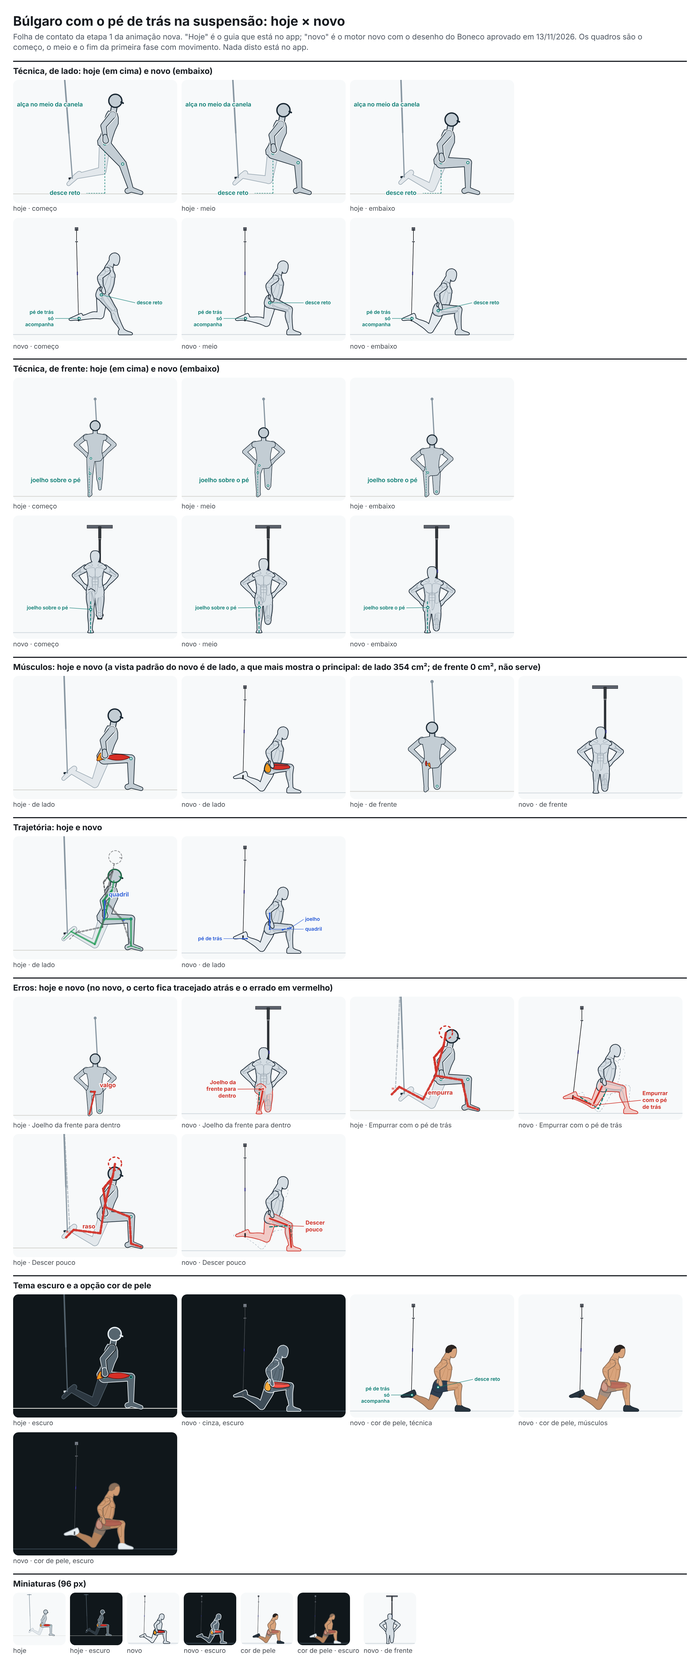
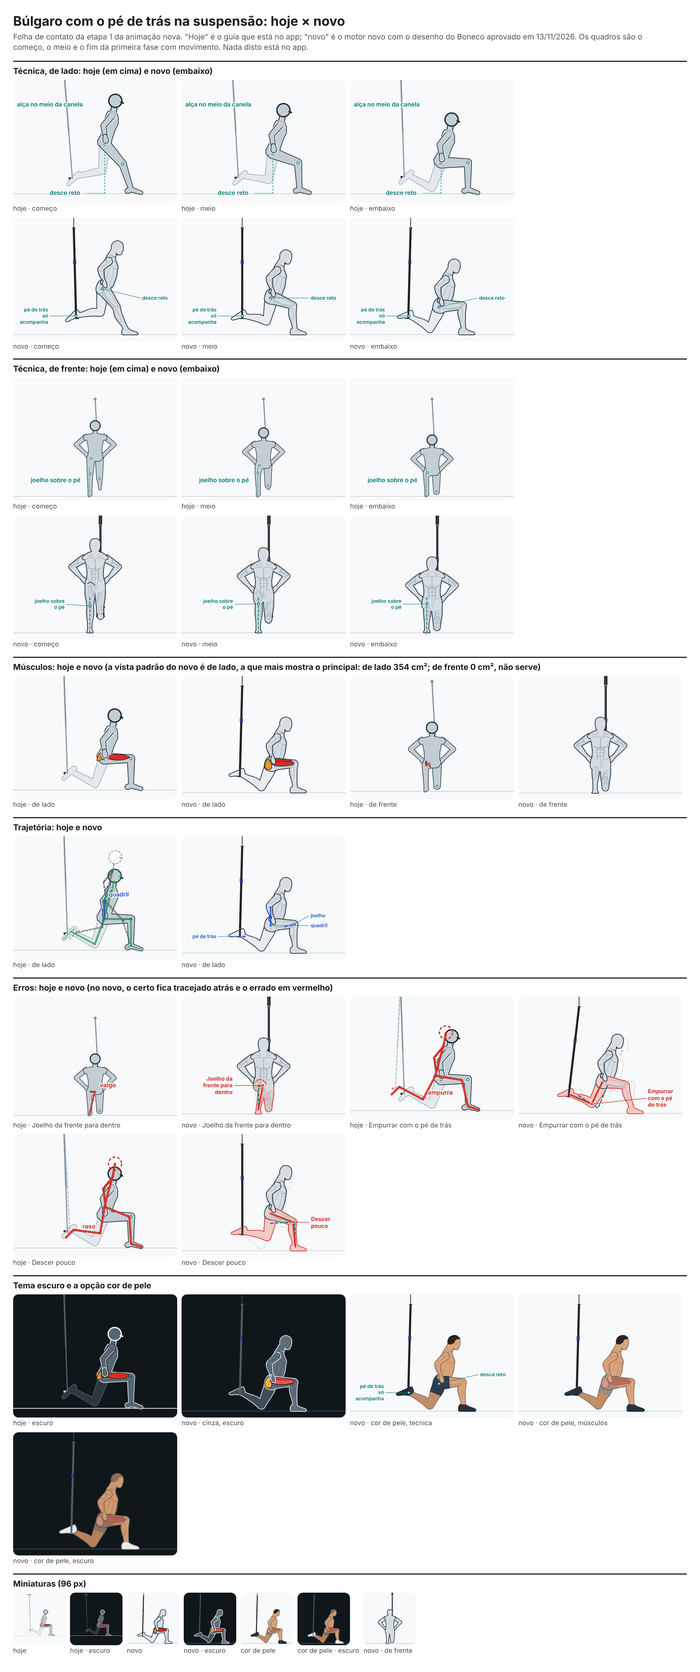
Corrige o búlgaro na suspensão: berço em volta do pé, pé que gira e fita legível
O berço ganha as duas tiras laterais, uma de cada lado do pé, juntas no
pegador acima dele; o pé gira no berço e a flexão plantar cai de 73° para
52°; a fita gira 45° e aparece de lado, de frente e no tema escuro; a viga
vira cenário e o corpo fica do tamanho do búlgaro aprovado. A peça da fita
só ganha campos opcionais: o desenho das outras animações não muda.

Claude-Session: https://claude.ai/code/session_01YRzts7dTzBdkrmTDEnq8bW

diff --git a/src/engine/novo/exercicios/bulgaro-base.ts b/src/engine/novo/exercicios/bulgaro-base.ts
@@ -5,6 +5,7 @@
 // O pé de trás apoia num banco reto, no assento de uma cadeira firme, ou no berço de uma fita de suspensão: na fita ele
 // não fica parado, pende da âncora e anda num arco (a fita não estica) enquanto o quadril desce.
 import { pontosDoBoneco } from '../boneco';
+import { angulosDoLado } from '../conferir-util';
 import { sinal } from '../esqueleto';
 import type { Esq, Lado, PoseBraco } from '../esqueleto';
 import { daFicha, fichaSchema, resolver1, suave } from '../movimento';
@@ -15,7 +16,7 @@ import { cadeira, parede } from '../pecas-de-cena/cadeira';
 import { alturaNaFita, fitaDeSuspensao } from '../pecas-de-cena/suspensao';
 import type { Corpo } from '../tabelas';
 import { obj } from '../tabelas';
-import { add, mix, norm, paraRef, sub } from '../vec';
+import { add, dist, mix, norm, paraRef, sub } from '../vec';
 import type { V3 } from '../vec';
 import { afundar } from './afundar';
 import { FRENTE, TRAS, maosNaCintura } from './afundo-estatico';
@@ -159,7 +160,39 @@ export function criarBulgaro(fichaJson: unknown, maos: MaosDoBulgaro, apoioDeTra
       z = Fi.zAlca - atras;
     return [x, alturaNaFita(Fi.ancora, Fi.comp, x, z), z];
   }
-  const tornozeloNaFita = (Fi: Fita, atras: number): V3 => sub(alcaNaFita(Fi, atras), Fi.contato);
+  /**
+   * O pé gira no berço em volta do ponto de apoio (o peito do pé), de lado: `giro` graus com a ponta mais para baixo.
+   * Gira o vetor do tornozelo ao apoio junto com o pé (no plano de lado, em volta de x).
+   */
+  const girarNoBerco = (v: V3, giro: number): V3 => {
+    const g = -giro * rad;
+    return [v[0], v[1] * Math.cos(g) - v[2] * Math.sin(g), v[1] * Math.sin(g) + v[2] * Math.cos(g)];
+  };
+  const tornozeloNaFita = (Fi: Fita, atras: number, giro = 0): V3 => sub(alcaNaFita(Fi, atras), girarNoBerco(Fi.contato, giro));
+  const comGiro = (A: Apoio, giro: number): Apoio => ({ ...A, inclina: A.inclina + giro });
+  /**
+   * Na fita, o pé não fica preso como no banco: ele gira no berço. Em cima, a canela de trás fica quase deitada (o berço
+   * é baixo) e, com o pé na inclinação do banco, o tornozelo esticaria além da média; o pé gira até a flexão plantar
+   * ficar em `fita.flexaoPlantarEmCima` e volta, na descida, à inclinação do banco (`giro` vai a zero embaixo).
+   */
+  const GIROS = new WeakMap<Corpo, { cima: number; giro: number }>();
+  function giroEmCima(corpo: Corpo): { cima: number; giro: number } {
+    let G = GIROS.get(corpo);
+    if (G) return G;
+    const A = apoio(corpo),
+      Fi = fita(corpo);
+    const cimaCom = (giro: number) => resolver1((y) => f('joelho.cima') - pose(corpo, y, comGiro(A, giro), { tornozelo: tornozeloNaFita(Fi, 0, giro) }).lado[FRENTE].ang.joelho, 95, 30);
+    let giro = 0,
+      cima = cimaCom(0);
+    for (let i = 0; i < 3; i++) {
+      const y = cima;
+      giro = resolver1((g) => -angulosDoLado(pose(corpo, y, comGiro(A, g), { tornozelo: tornozeloNaFita(Fi, 0, g) }), TRAS).dorsiflexao - f('fita.flexaoPlantarEmCima'), 0, 45);
+      cima = cimaCom(giro);
+    }
+    G = { cima, giro };
+    GIROS.set(corpo, G);
+    return G;
+  }
 
   /** As alturas do quadril em cima (o joelho da frente quase estendido) e embaixo (o joelho de trás perto do chão). */
   function calibrar(corpo: Corpo) {
@@ -172,7 +205,7 @@ export function criarBulgaro(fichaJson: unknown, maos: MaosDoBulgaro, apoioDeTra
     const tCima = Fi ? tornozeloNaFita(Fi, 0) : undefined,
       tBaixo = Fi ? tornozeloNaFita(Fi, f('fita.peVaiParaTras')) : undefined;
     const baixo = resolver1((y) => pose(corpo, y, A, { tornozelo: tBaixo }).lado[TRAS].joelho[1] - raioDoJoelho - f('joelhoDeTras.aoChao'), 25, 70);
-    const cima = resolver1((y) => f('joelho.cima') - pose(corpo, y, A, { tornozelo: tCima }).lado[FRENTE].ang.joelho, 95, baixo);
+    const cima = Fi ? giroEmCima(corpo).cima : resolver1((y) => f('joelho.cima') - pose(corpo, y, A, { tornozelo: tCima }).lado[FRENTE].ang.joelho, 95, baixo);
     // no erro do pé perto do banco, a pessoa também começa com o joelho da frente quase estendido
     const cimaPerto = 'erro.perto.maisPerto' in F.param ? resolver1((y) => f('joelho.cima') - pose(corpo, y, A, { perto: f('erro.perto.maisPerto') }).lado[FRENTE].ang.joelho, 95, baixo) : cima;
     c = { cima, cimaPerto, baixo };
@@ -215,11 +248,34 @@ export function criarBulgaro(fichaJson: unknown, maos: MaosDoBulgaro, apoioDeTra
   }
 
   /**
+   * O berço em volta do pé: as duas tiras laterais passam uma de cada lado do pé (a largura do pé mais uma folga) e se
+   * juntam no pegador acima dele, mais alto que o calcanhar e o tornozelo (medido no Boneco, no ciclo, com uma folga):
+   * a fita que sobe para a âncora não atravessa o pé.
+   */
+  const BERCOS = new WeakMap<Corpo, { largura: number; juntaAcima: number }>();
+  function bercoDoPe(corpo: Corpo): { largura: number; juntaAcima: number } {
+    let B = BERCOS.get(corpo);
+    if (B) return B;
+    const largura = corpo.m('pe.largura') + 2 * f('fita.bercoFolga');
+    let acima = 0;
+    for (const u of [0, 0.25, 0.5, 0.75, 1]) {
+      const q = quadroNaFita(corpo, u, undefined, true);
+      const T = q.esq.lado[TRAS].tornozelo,
+        a = q.marcas.alca!;
+      // o que do pé e da canela de trás fica na coluna da fita, acima do berço
+      for (const { p } of pontosDoBoneco(q.esq)) if (dist(p, T) < 20 && Math.abs(p[2] - a[2]) < f('fita.bercoFolga') + 2 && Math.abs(p[0] - a[0]) < largura / 2) acima = Math.max(acima, p[1] - a[1]);
+    }
+    B = { largura, juntaAcima: acima + f('fita.bercoFolga') };
+    BERCOS.set(corpo, B);
+    return B;
+  }
+
+  /**
    * O búlgaro com o pé de trás na fita. O quadril desce reto como no banco; o fundo do berço anda para trás no arco
    * da fita (`fita.peVaiParaTras` até embaixo) e o tornozelo vai junto. No erro de empurrar a alça, a perna de trás
    * estica: o pé vai mais para trás, o quadril recua e desce menos.
    */
-  function quadroNaFita(corpo: Corpo, u: number, erro?: string): Quadro {
+  function quadroNaFita(corpo: Corpo, u: number, erro?: string, semBerco = false): Quadro {
     const A = apoio(corpo);
     const c = calibrar(corpo);
     const Fi = fita(corpo);
@@ -227,19 +283,22 @@ export function criarBulgaro(fichaJson: unknown, maos: MaosDoBulgaro, apoioDeTra
     const fundo = erro === 'raso' ? f('erro.raso.fracao') : empurra ? f('erro.empurra.fracao') : 1;
     const atras = empurra ? (f('fita.peVaiParaTras') + f('erro.empurra.peMaisAtras')) * u : f('fita.peVaiParaTras') * u * fundo;
     const alca = alcaNaFita(Fi, atras);
-    const e = pose(corpo, mix(c.cima, c.baixo, u * fundo), A, {
+    // o pé gira no berço de volta à inclinação do banco à medida que a canela se levanta
+    const giro = giroEmCima(corpo).giro * (1 - u);
+    const e = pose(corpo, mix(c.cima, c.baixo, u * fundo), comGiro(A, giro), {
       valgo: erro === 'valgo' ? f('erro.valgo.joelho') * Math.sin((Math.PI / 2) * Math.min(1, u * 1.25)) : 0,
-      tornozelo: sub(alca, Fi.contato),
+      tornozelo: sub(alca, girarNoBerco(Fi.contato, giro)),
       quadrilZ: empurra ? -f('erro.empurra.quadrilAtras') * u : 0,
     });
-    const S = fitaDeSuspensao({ ancora: Fi.ancora, pegadores: [{ tipo: 'pe', ponto: alca, lado: [1, 0, 0] }] });
+    const S = fitaDeSuspensao({ ancora: Fi.ancora, pegadores: [{ tipo: 'pe', ponto: alca, lado: [1, 0, 0], ...(semBerco ? {} : bercoDoPe(corpo)) }], fitaGirada: f('fita.giroDaFita'), vigaComoCenario: true });
     return {
       esq: e,
       prims: [chao(-90, 90, -190, 90), ...S.prims],
-      pecas: [S.peca],
+      // a viga e a fita de ancoragem são cenário: o quadro não sobe até elas e o corpo fica maior
+      pecas: [S.peca, ...(S.cenario ? [S.cenario] : [])],
       fios: [{ id: 'fita', comp: S.comp[0]!, estica: false }],
       cargas: [],
-      marcas: { alca, ancora: Fi.ancora, contatoDoPe: add(e.lado[TRAS].tornozelo, Fi.contato) },
+      marcas: { alca, ancora: Fi.ancora, contatoDoPe: add(e.lado[TRAS].tornozelo, girarNoBerco(Fi.contato, giro)) },
     };
   }
   return { ficha: F, quadro, alturaDoApoio };

diff --git a/src/engine/novo/pecas-de-cena/suspensao.ts b/src/engine/novo/pecas-de-cena/suspensao.ts
@@ -25,6 +25,13 @@ export interface PegadorDaFita {
   tipo: 'mao' | 'pe';
   ponto: V3;
   lado: V3;
+  /**
+   * Só no pé, opcionais (acrescentados na correção do búlgaro na suspensão; sem eles, nada muda): o berço em volta do
+   * pé. `largura`: a distância entre as duas tiras laterais no fundo do berço (elas passam uma de cada lado do pé);
+   * `juntaAcima`: quanto acima do fundo do berço as duas tiras se juntam no pegador (acima do pé e do tornozelo).
+   */
+  largura?: number;
+  juntaAcima?: number;
 }
 export interface FitaDeSuspensao {
   /** Onde a fita se prende: a ponta de baixo da fita de ancoragem (o mosquetão fica pendurado aí). */
@@ -37,7 +44,16 @@ export interface FitaDeSuspensao {
    * fora do enquadramento, para o corpo não encolher no quadro (acrescentado no lote 4; sem ele, nada muda).
    */
   vigaComoCenario?: boolean;
+  /**
+   * Quanto a fita gira em volta do próprio comprimento (graus; opcional, acrescentado na correção do búlgaro na
+   * suspensão; sem ele, nada muda). Com 0, a face larga fica de frente para quem olha de frente e, de lado, a fita é só
+   * a espessura; a 45°, as duas vistas a mostram (a fita real torce um pouco).
+   */
+  fitaGirada?: number;
 }
+
+/** Quanto o berço do pé desce abaixo do pegador: o do pegador, se ele disser, ou o da tabela. */
+const alturaDoBerco = (p: PegadorDaFita) => p.juntaAcima ?? g('bercoAlt');
 
 /** O caminho da fita até cada pegador: âncora → (ponto onde se divide) → onde a fita chega ao pegador. */
 function caminhos(f: FitaDeSuspensao): { divide: V3; pontas: { chega: V3; p: PegadorDaFita }[] } {
@@ -50,7 +66,7 @@ function caminhos(f: FitaDeSuspensao): { divide: V3; pontas: { chega: V3; p: Peg
   const pontas = ps.map((p) => {
     if (p.tipo === 'mao') return { chega: p.ponto, p };
     const d = norm(sub(p.ponto, divide));
-    return { chega: add(p.ponto, mul(d, -g('bercoAlt'))), p };
+    return { chega: add(p.ponto, mul(d, -alturaDoBerco(p))), p };
   });
   return { divide, pontas };
 }
@@ -69,7 +85,7 @@ export function pontoDeDivisao(f: FitaDeSuspensao): V3 {
  */
 export function comprimentoDaFita(f: FitaDeSuspensao): number[] {
   const c = caminhos(f);
-  return c.pontas.map(({ chega, p }) => dist(f.ancora, c.divide) + dist(c.divide, chega) + (p.tipo === 'pe' ? g('bercoAlt') : 0));
+  return c.pontas.map(({ chega, p }) => dist(f.ancora, c.divide) + dist(c.divide, chega) + (p.tipo === 'pe' ? alturaDoBerco(p) : 0));
 }
 
 /**
@@ -82,10 +98,15 @@ export function alturaNaFita(ancora: V3, comp: number, x: number, z: number): nu
 }
 
 /** A viga (o ponto firme da montagem segura; o tamanho é só de desenho) e a ponta da fita de ancoragem que desce dela. */
-function vigaEAncoragem(C: CenaRealista, M: Materiais, ancora: V3, trecho: (a: V3, b: V3, larg: number, lado: V3) => void) {
+function vigaEAncoragem(C: CenaRealista, M: Materiais, ancora: V3, trecho: (a: V3, b: V3, larg: number, lado: V3) => void, giro = 0) {
   const topo = add(ancora, [0, 22, 0]);
   C.tubo(add(topo, [-25, 3, 0]), add(topo, [25, 3, 0]), 6, 6, M.metal, { up: [0, 1, 0] });
-  trecho(add(topo, [0, 3, 0]), add(ancora, [0, 2, 0]), g('ancoraLarg'), [1, 0, 0]);
+  trecho(add(topo, [0, 3, 0]), add(ancora, [0, 2, 0]), g('ancoraLarg'), giro ? girarEmVolta([1, 0, 0], [0, -1, 0], giro) : [1, 0, 0]);
+}
+/** Gira a direção `l` em volta do eixo `d` (perpendicular a ela), em graus. */
+function girarEmVolta(l: V3, d: V3, graus: number): V3 {
+  const a = (graus * Math.PI) / 180;
+  return norm(add(mul(l, Math.cos(a)), mul(cross(d, l), Math.sin(a))));
 }
 /** Um trecho de fita chata, de `a` a `b`, com a largura atravessada na direção `lado`. */
 const trechoDeFita = (C: CenaRealista, M: Materiais) => (a: V3, b: V3, larg: number, lado: V3, esp = 0.35) => {
@@ -114,13 +135,28 @@ export function fitaDeSuspensao(f: FitaDeSuspensao): { prims: Prim[]; peca: Peca
         if (len(up) < 1e-4) up = cross([0, 0, 1], d);
         C.tubo(a, b, larg, esp, fita, { up: norm(up) });
       };
+      /**
+       * O berço em volta do pé: o pegador atravessado no alto (onde as tiras se juntam), as duas tiras laterais, uma de
+       * cada lado do pé, e a almofada do fundo, por baixo do peito do pé. As tiras mostram a face de lado.
+       */
+      const bercoEmVolta = (junta: V3, fundo: V3, d: V3, l: V3, largura: number) => {
+        const meia = g('pegadorComp') / 2;
+        C.cilindro(add(junta, mul(l, -meia)), add(junta, mul(l, meia)), g('pegadorDiam') / 2, fita, { lados: 12 });
+        const face = norm(cross(l, d));
+        const esp = 1.2;
+        // a almofada do fundo fica logo abaixo do ponto de apoio (o pé apoia em cima dela)
+        const centro = add(fundo, mul(d, esp / 2));
+        for (const s of [-1, 1]) trecho(add(junta, mul(l, s * (meia - 1.5))), add(centro, mul(l, s * (largura / 2))), 2.5, face, 0.5);
+        C.tubo(add(centro, mul(l, -largura / 2 - 0.6)), add(centro, mul(l, largura / 2 + 0.6)), g('bercoLarg'), esp, fita, { up: d });
+      };
       const ladoDe = (d: V3): V3 => {
         const l = perp([1, 0, 0], d);
         return len(l) < 1e-4 ? [0, 0, 1] : norm(l);
       };
       // o ponto firme (uma viga ou barra, como pede a montagem segura; o tamanho é só de desenho), a ponta da fita de
       // ancoragem que desce dele e o mosquetão
-      if (!f.vigaComoCenario) vigaEAncoragem(C, M, f.ancora, trecho);
+      if (!f.vigaComoCenario) vigaEAncoragem(C, M, f.ancora, trecho, f.fitaGirada ?? 0);
+      const gira = (l: V3, d: V3) => (f.fitaGirada ? girarEmVolta(l, d, f.fitaGirada) : l);
       const mosq = g('mosquetaoComp');
       const dA = norm(sub(c.divide === f.ancora ? c.pontas[0]!.chega : c.divide, f.ancora));
       const fimMosq = add(f.ancora, mul(dA, mosq));
@@ -134,14 +170,19 @@ export function fitaDeSuspensao(f: FitaDeSuspensao): { prims: Prim[]; peca: Peca
       }
       for (let i = 0; i < voltas; i++) C.cilindro(anel[i]!, anel[i + 1]!, 0.7, M.cromo, { lados: 8 });
       // a fita inteira até onde se divide (com dois pegadores) e uma fita até cada pegador, com a fivela de ajuste
-      if (c.divide !== f.ancora) trecho(fimMosq, c.divide, g('fitaLarg'), ladoDe(norm(sub(c.divide, f.ancora))));
+      if (c.divide !== f.ancora) trecho(fimMosq, c.divide, g('fitaLarg'), gira(ladoDe(norm(sub(c.divide, f.ancora))), norm(sub(c.divide, f.ancora))));
       for (const { chega, p } of c.pontas) {
         const de = c.divide === f.ancora ? fimMosq : c.divide;
         const d = norm(sub(chega, de));
         const l = norm(perp(p.lado, d));
-        trecho(de, chega, g('fitaLarg'), l);
+        const lf = gira(l, d);
+        trecho(de, chega, g('fitaLarg'), lf);
         const fivela = lerp(de, chega, 0.42);
-        C.tubo(add(fivela, mul(d, -3)), add(fivela, mul(d, 3)), g('fitaLarg') + 1.2, 1.4, acao, { up: norm(cross(l, d)) });
+        C.tubo(add(fivela, mul(d, -3)), add(fivela, mul(d, 3)), g('fitaLarg') + 1.2, 1.4, acao, { up: norm(cross(lf, d)) });
+        if (p.tipo === 'pe' && p.largura !== undefined) {
+          bercoEmVolta(chega, p.ponto, d, l, p.largura);
+          continue;
+        }
         // o pegador de mão: atravessado à fita; para o pé, ele fica logo acima do berço
         const pega = p.tipo === 'mao' ? p.ponto : chega;
         const meia = g('pegadorComp') / 2;

diff --git a/docs/revisoes/animacao-nova/lote-1/bulgaro-suspensao.md b/docs/revisoes/animacao-nova/lote-1/bulgaro-suspensao.md
@@ -2,6 +2,8 @@
 
 De 15/11/2026. Feito sobre o núcleo dos búlgaros (`bulgaro-base.ts`), com o corpo do búlgaro aprovado e as mãos na cintura. O que muda: o peito do pé de trás fica no berço da alça de uma fita de suspensão, de costas para a âncora, e **o pé não fica parado**: ele pende da âncora e anda para trás num arco enquanto o quadril desce, com a fita sempre do mesmo comprimento. Ainda não está ligado às telas do app.
 
+**Correção de 15/11/2026** (pedida por quem integra, pelo padrão de qualidade da seção 8 do guia): o berço passou a ter as duas tiras laterais, uma de cada lado do pé, juntando-se no pegador acima dele; o pé gira no berço e a flexão plantar caiu de 73° para 52°; a fita gira 45° em volta do comprimento e aparece de lado, de frente e no tema escuro; a viga e a fita de ancoragem viraram cenário e o corpo ficou do tamanho do búlgaro aprovado. Relatório da correção: `relatorio-bulgaro-suspensao-correcao.md`.
+
 - Ficha da técnica: `docs/pesquisa/animacoes/bulgaro-suspensao.md`.
 - Ficha de movimento: `src/engine/novo/dados/movimentos/bulgaro-suspensao.json`.
 - Animação: `src/engine/novo/exercicios/bulgaro-suspensao.ts` (`criarBulgaro(ficha, 'cintura', 'fita')`).
@@ -13,16 +15,17 @@ De 15/11/2026. Feito sobre o núcleo dos búlgaros (`bulgaro-base.ts`), com o co
 
 1. **A âncora** fica a 182,9 cm do chão: é a altura que o fabricante chama de ideal para todos os exercícios ("about six feet", página da TRX). A animação de hoje usa 205 cm, escolha de desenho; com 183, a âncora cabe no quadro sem encolher o corpo.
 2. **O comprimento da fita** sai da montagem que a ficha pede, "alça na altura do meio da canela": pendurada, o fundo do berço fica no meio da canela do corpo (28,3 cm; o fabricante dá 8 a 12 pol, 20,3 a 30,5 cm). Da âncora ao fundo do berço: 182,9 − 28,3 = 154,7 cm.
-3. **No exercício**, o fundo do berço fica sempre a 154,7 cm da âncora. Em cima, ele está 4 cm à frente da vertical da âncora; na descida anda 8 cm para trás (como na animação de hoje) e termina 4 cm atrás dela. Como o arco é simétrico, a altura quase não muda (28,3 cm). O tornozelo vai junto: o peito do pé apoia no berço como apoiaria no banco (a mesma inclinação, que sai da forma do pé do Boneco).
+3. **No exercício**, o fundo do berço fica sempre a 154,7 cm da âncora. Em cima, ele está 4 cm à frente da vertical da âncora; na descida anda 8 cm para trás (como na animação de hoje) e termina 4 cm atrás dela. Como o arco é simétrico, a altura quase não muda (28,3 cm). O tornozelo vai junto. O peito do pé apoia no fundo do berço e **gira em volta desse ponto**: em cima, o pé fica com a ponta mais para baixo, até o tornozelo de trás ficar esticado como no búlgaro aprovado (52°); na descida, à medida que a canela se levanta, ele volta à inclinação do banco (embaixo, 33°).
+4. **O berço** abraça o pé: as duas tiras laterais passam a 1,5 cm de cada lado do pé (a largura do pé, 9,9 cm, mais a folga) e se juntam no pegador, 1,5 cm acima do ponto mais alto do pé e do tornozelo nessa coluna, medido no Boneco no ciclo; a almofada do fundo fica sob o peito do pé. A fita que sobe para a âncora sai do pegador, acima do pé, e não o atravessa.
 
 ## O que a fonte pede × o que o boneco faz (medido) × confere?
 
 | O que a ficha da técnica (e o cartão) pede | Selo | O que o boneco faz (medido) | Confere? |
 |---|---|---|---|
-| De costas para a âncora, peito do pé de trás na alça, cadarço para baixo | consenso | a âncora fica atrás da pessoa; o peito do pé fica a no máximo 0,1 cm do fundo do berço, de sola para cima, o ciclo inteiro | sim |
+| De costas para a âncora, peito do pé de trás na alça, cadarço para baixo | consenso | a âncora fica atrás da pessoa; o peito do pé fica a 0 cm do fundo do berço, de sola para cima (em cima, a sola fica a cerca de 45° da horizontal), o ciclo inteiro | sim |
 | Alça na altura do meio da canela | consenso | o fundo do berço fica a 28,3 cm do chão (o meio da canela do corpo: 28,3; o fabricante: 20,3 a 30,5) | sim |
 | A fita não estica | (física) | da âncora ao fundo do berço: 154,6 a 154,7 cm no ciclo (limite: 0,3 cm de variação) | sim |
-| Descida: o pé de trás vai para trás com a fita | consenso | o pé de trás anda 8 cm para trás e 0 cm para cima, no arco | sim |
+| Descida: o pé de trás vai para trás com a fita | consenso | o fundo do berço anda 8 cm para trás no arco; o tornozelo, que também gira com o pé, anda 6,7 cm para trás e 0,2 cm para baixo | sim |
 | Pé da frente longe o bastante para o calcanhar ficar no chão embaixo | consenso | calcanhar e bola do pé da frente a 0 cm do chão; embaixo, o joelho da frente fica 1,3 cm atrás do tornozelo | sim |
 | Tronco levemente à frente, peso na perna da frente, mãos na cintura | consenso | peito 16° para a frente; centro de massa a 60 a 64% do caminho do tornozelo de trás ao da frente; mãos na cintura | sim |
 | Em cima: joelho da frente quase estendido | consenso | 14° | sim |
@@ -33,7 +36,7 @@ De 15/11/2026. Feito sobre o núcleo dos búlgaros (`bulgaro-base.ts`), com o co
 
 Com o pé de trás mais baixo que no banco (o tornozelo a 31,7 cm, contra 46,9 no banco), o joelho de trás chega aos 4 cm do chão com o quadril mais alto: 47 cm, contra 42 no aprovado. Por isso a coxa da frente para mais perto da horizontal (3°) e o joelho da frente dobra menos (91°, contra 98°).
 
-Conferência automática: **0 falha, 3 avisos**: a **flexão plantar do tornozelo de trás chega a 73° em cima** (média 57°, máximo observado 90°); as linhas da ficha de movimento que são escolha de desenho (as distâncias dos pés, iguais às do aprovado; onde o berço fica em relação à âncora; quanto o pé anda; o raio de onde se procura o ponto de apoio do peito do pé; a altura das mãos); e a vista de frente, que não serve ao modo Músculos (a vista padrão é a de lado). Ritmo suave (salto de 9,3%). O corpo não atravessa nenhuma peça (a fita não é medida contra o corpo: ver abaixo).
+Conferência automática: **0 falha, 2 avisos** (antes da correção eram 3: a flexão plantar de 73° saiu; agora ela chega a 52°, abaixo da média de 57°): as linhas da ficha de movimento que são escolha de desenho (as distâncias dos pés, iguais às do aprovado; onde o berço fica em relação à âncora; quanto o pé anda; o raio de onde se procura o ponto de apoio do peito do pé; a flexão plantar em cima; a folga do berço; o giro da fita; a altura das mãos); e a vista de frente, que não serve ao modo Músculos (a vista padrão é a de lado). Ritmo suave (salto de 9,3%). O corpo não atravessa nenhuma peça. A fita não é medida contra o corpo pela conferência; o berço é que foi dimensionado pelo Boneco (item 4 acima).
 
 ## Erros
 
@@ -45,7 +48,7 @@ Conferência automática: **0 falha, 3 avisos**: a **flexão plantar do tornozel
 
 ## O equipamento
 
-- **Fita de suspensão** (peça nova, num arquivo só, para os outros exercícios de suspensão): um trecho da viga (o "ponto firme" da montagem segura; tamanho de desenho), a ponta da fita de ancoragem (5,1 cm de largura, da ficha da TRX), o mosquetão, a fita, a fivela de ajuste (na cor de ação, como no cartão de hoje), o pegador de mão e o berço do pé logo abaixo dele. A peça aceita um ou dois pegadores, de mão ou de pé, e devolve o comprimento de cada fita para `fios` (`estica: false`); `alturaNaFita` acha a altura de um pegador pendurado.
+- **Fita de suspensão** (peça nova, num arquivo só, para os outros exercícios de suspensão): um trecho da viga (o "ponto firme" da montagem segura; tamanho de desenho), a ponta da fita de ancoragem (5,1 cm de largura, da ficha da TRX), o mosquetão, a fita, a fivela de ajuste (na cor de ação, como no cartão de hoje), o pegador de mão e o berço do pé logo abaixo dele. Na correção ganhou três acréscimos opcionais (sem eles, nada muda nos outros exercícios da fita; conferido pelo desenho de todas as animações, igual antes e depois): `largura` e `juntaAcima` no pegador do pé (o berço com as duas tiras em volta do pé, a almofada do fundo e o pegador no alto) e `fitaGirada` na fita (quantos graus a fita gira em volta do comprimento). A peça aceita um ou dois pegadores, de mão ou de pé, e devolve o comprimento de cada fita para `fios` (`estica: false`); `alturaNaFita` acha a altura de um pegador pendurado.
 - **Medidas provisórias** (a página do fabricante não traz): largura da fita (3,8 cm), mosquetão (10 cm), pegador (14 × 3,5 cm), berço do pé (9 cm de largura, 6 cm abaixo do pegador).
 
 ## Correções já feitas que esta animação respeita (`correcoes-ja-feitas.md`)
@@ -56,10 +59,6 @@ Conferência automática: **0 falha, 3 avisos**: a **flexão plantar do tornozel
 
 ## O que não ficou bom
 
-- **A flexão plantar do tornozelo de trás vai a 73° em cima** (aviso): o pé fica deitado no berço com a mesma inclinação do banco, mas, como o berço é bem mais baixo que o banco, a canela de trás fica quase horizontal em cima. Na fita real o pé gira no berço; aqui ele não gira. Seria a próxima correção (deixar o pé girar em volta do ponto de apoio).
-- **O pé de trás fica baixo** (o tornozelo a 32 cm): é o que a ficha pede (alça no meio da canela) e o que a animação de hoje mostra, mas lê menos como "búlgaro" que o banco ou a cadeira.
-- **A fita sobe do peito do pé passando pelo tornozelo:** de verdade, os dois lados do berço sobem um de cada lado do pé; o desenho tem uma fita só, no meio, e o motor não mede a fita contra o corpo. De lado, ela cruza o tornozelo por cima do desenho.
-- **O pegador e o berço do pé quase não aparecem de lado** (o pegador fica de ponta); de frente, a fita é uma faixa preta larga atrás da cabeça.
-- **No tema escuro, a fita quase some** (o preto da borracha clareado ainda fica perto do fundo).
-- **O erro "empurrar com o pé de trás"** é a mesma ideia da animação de hoje (14 cm, 9 cm, 6 cm), não uma medida.
-- A viga do alto é desenho, sem medida.
+- **O pé de trás fica baixo** (o tornozelo a 32 cm): é o que a ficha pede (alça no meio da canela, como manda o fabricante) e o que a animação de hoje mostra; não é defeito de desenho, mas lê menos como "búlgaro" que o banco ou a cadeira. Mudar exigiria contrariar a ficha.
+- **De lado, as tiras do berço passam por cima do pé** (a tira do lado de perto fica entre quem olha e o pé, como na fita real); o pé aparece dos dois lados delas.
+- Os números do erro "empurrar com o pé de trás" (14, 9 e 6 cm) e a viga do alto são escolhas de desenho, sem medida.
